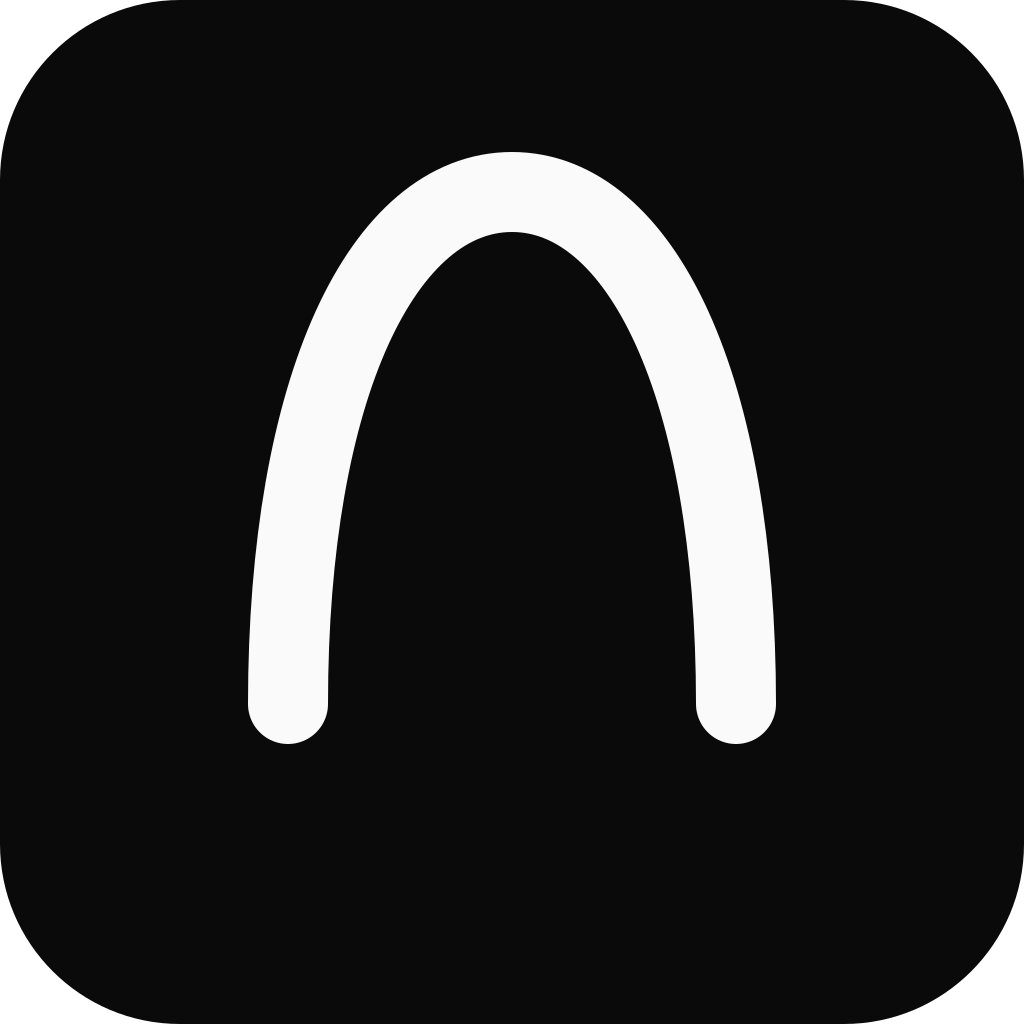
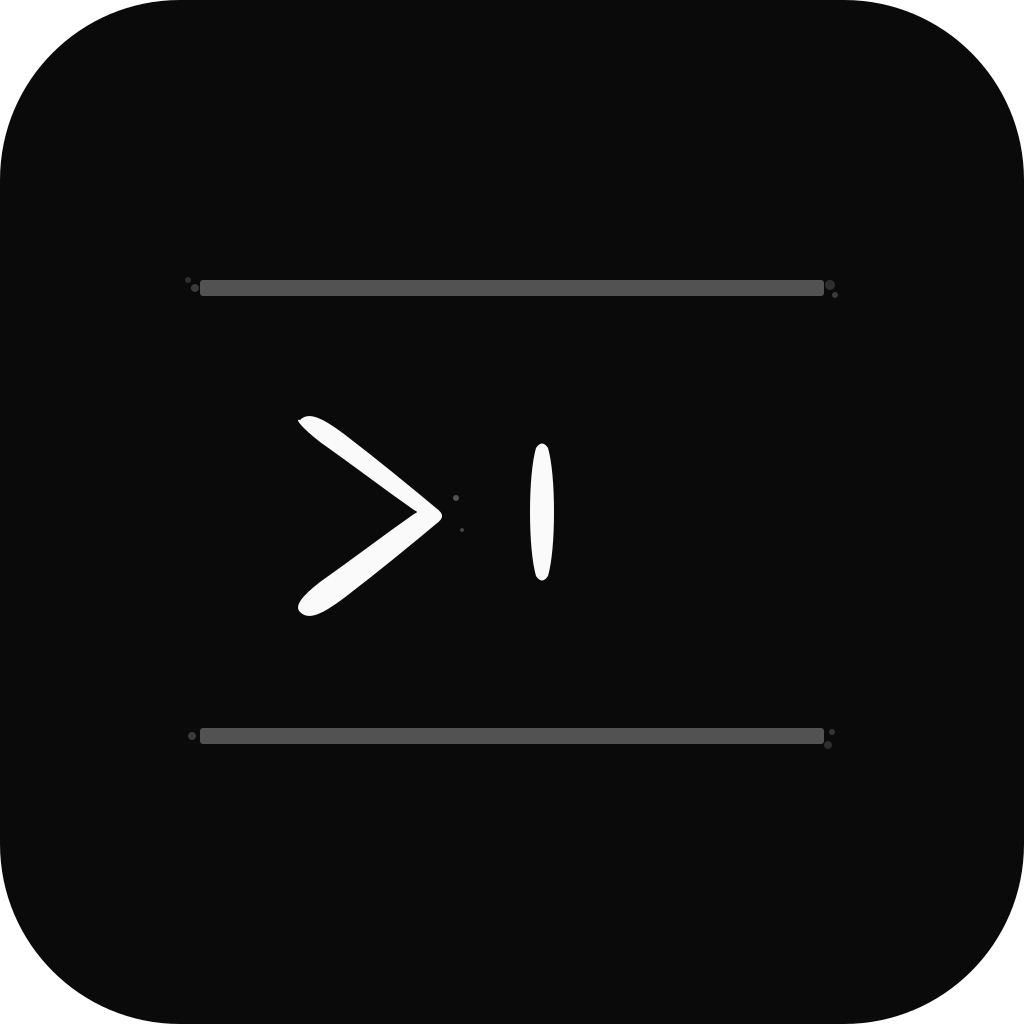
feat: replace arc mark with prompt mark (brush chevron + cursor + bars)
The arc mark looked like McDonald's arches. New mark is a terminal prompt
(> |) rendered in brushstroke style with ink splatter, between subtle bars.
Connects to the app's purpose (terminal client) while the brush quality
ties it to Northglass ensō brand language.

Updated: svgAssets.ts, logo-mark.svg, all PNGs, generate script.

Changed region(s): [[0.1875, 0.125, 0.8125, 0.75], [0.5, 0.4375, 0.5625, 0.5625]]

diff --git a/packages/idle-app/sources/brand/svgAssets.ts b/packages/idle-app/sources/brand/svgAssets.ts
@@ -3,8 +3,8 @@
  * Use currentColor so parent can set color (e.g. theme.colors.header.tint).
  */
 
-/** Logo mark: arc (brushstroke half-enso). 24x24 viewBox. */
-export const logoMarkSvg = `<svg xmlns="http://www.w3.org/2000/svg" viewBox="0 0 24 24" fill="none" stroke="currentColor" stroke-width="3" stroke-linecap="round"><path d="M5 16 C5 8.5 8 4 12 4 C16 4 19 8.5 19 16"/></svg>`;
+/** Logo mark: prompt (brush chevron + cursor between bars with splatter). 24x24 viewBox. */
+export const logoMarkSvg = `<svg xmlns="http://www.w3.org/2000/svg" viewBox="0 0 24 24" fill="none"><rect x="4" y="5.5" width="16" height="0.5" rx="0.25" fill="currentColor" opacity="0.3"/><rect x="4" y="18" width="16" height="0.5" rx="0.25" fill="currentColor" opacity="0.3"/><circle cx="3.8" cy="5.7" r="0.12" fill="currentColor" opacity="0.2"/><circle cx="20.3" cy="5.6" r="0.15" fill="currentColor" opacity="0.18"/><circle cx="3.7" cy="18.2" r="0.12" fill="currentColor" opacity="0.2"/><circle cx="20.2" cy="18.4" r="0.15" fill="currentColor" opacity="0.16"/><path d="M6.5 9.5 C6.7 9.3 7 9.3 7.5 9.7 C8.3 10.3 9.2 11 10 11.8 C10.3 12 10.4 12.1 10.2 12.2 C9.6 12.7 8.6 13.5 7.8 14.1 C7.2 14.5 6.8 14.7 6.6 14.5 C6.5 14.3 6.6 14.1 7.2 13.6 C8 13 8.8 12.4 9.5 12 C8.8 11.6 8 11 7.2 10.4 C6.6 9.9 6.5 9.7 6.5 9.5 Z" fill="currentColor"/><circle cx="10.8" cy="11.8" r="0.15" fill="currentColor" opacity="0.3"/><circle cx="11" cy="12.4" r="0.1" fill="currentColor" opacity="0.25"/><path d="M12.8 10.2 C12.9 10 13 10 13.1 10.2 C13.2 10.5 13.3 11 13.3 12 C13.3 13 13.2 13.5 13.1 13.8 C13 14 12.9 14 12.8 13.8 C12.7 13.5 12.6 13 12.6 12 C12.6 11 12.7 10.5 12.8 10.2 Z" fill="currentColor"/></svg>`;
 
 /** Inbox / tray icon. 24×24. */
 export const tabInboxSvg = `<svg xmlns="http://www.w3.org/2000/svg" viewBox="0 0 24 24" fill="none" stroke="currentColor" stroke-width="2" stroke-linecap="round" stroke-linejoin="round"><path d="M4 8h16v11a2 2 0 0 1-2 2H6a2 2 0 0 1-2-2V8z"/><path d="M4 8l2.5-4h11L20 8"/><path d="M9 13h6"/></svg>`;
